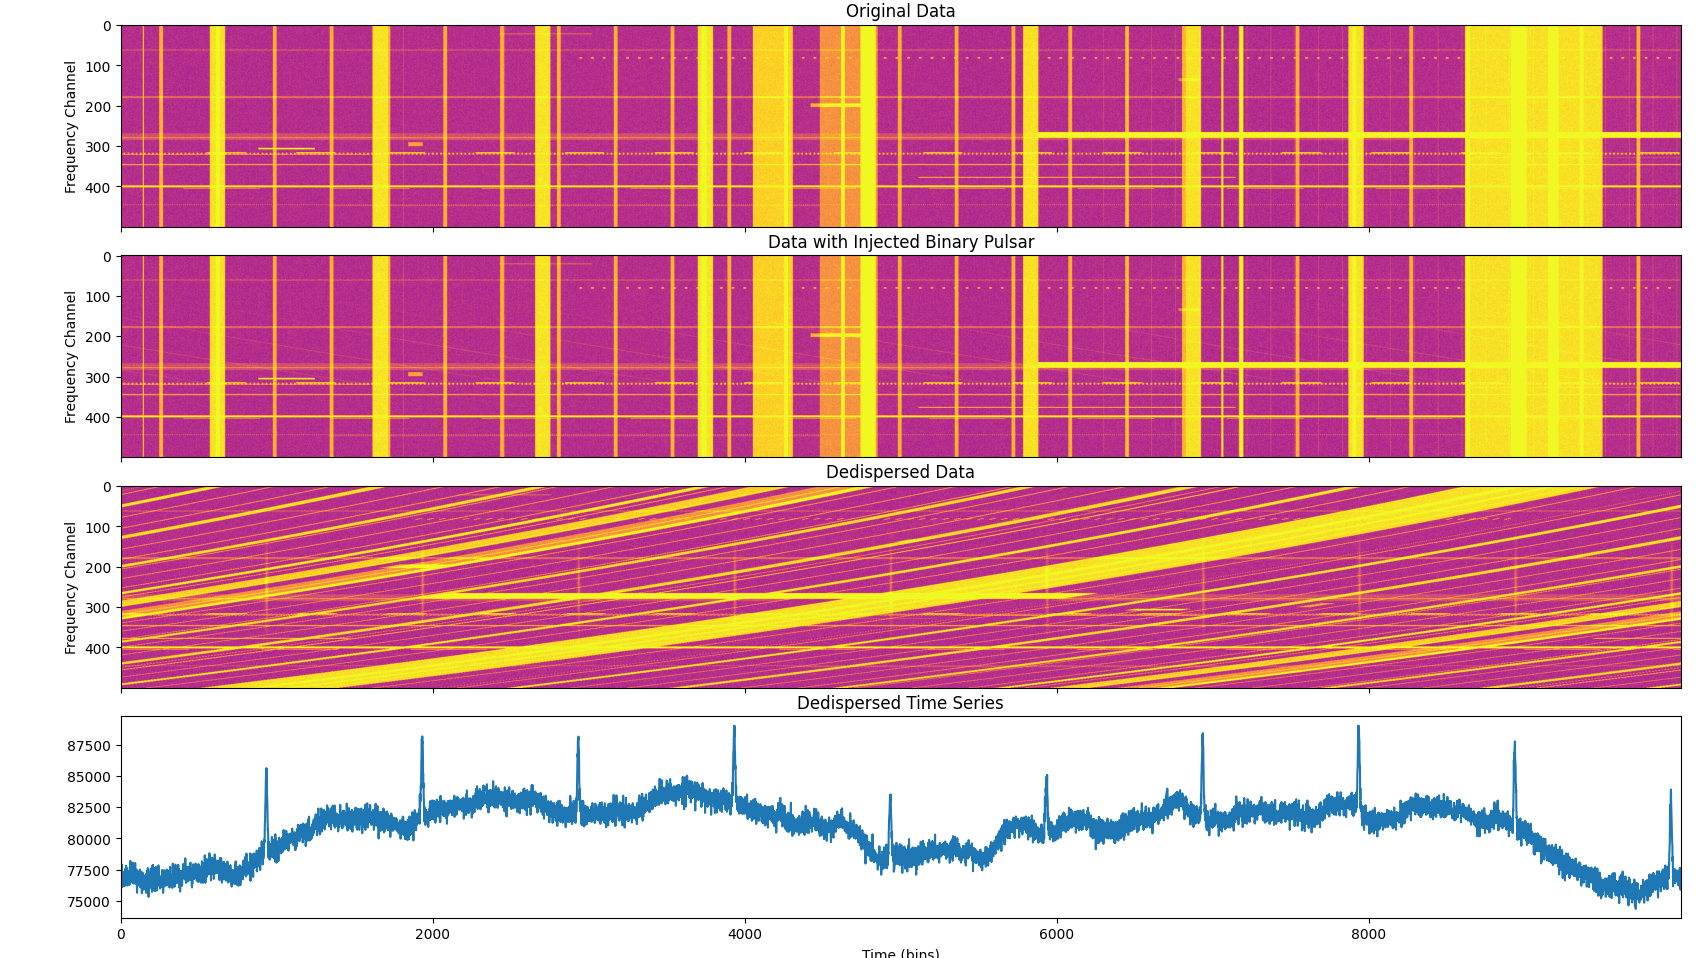
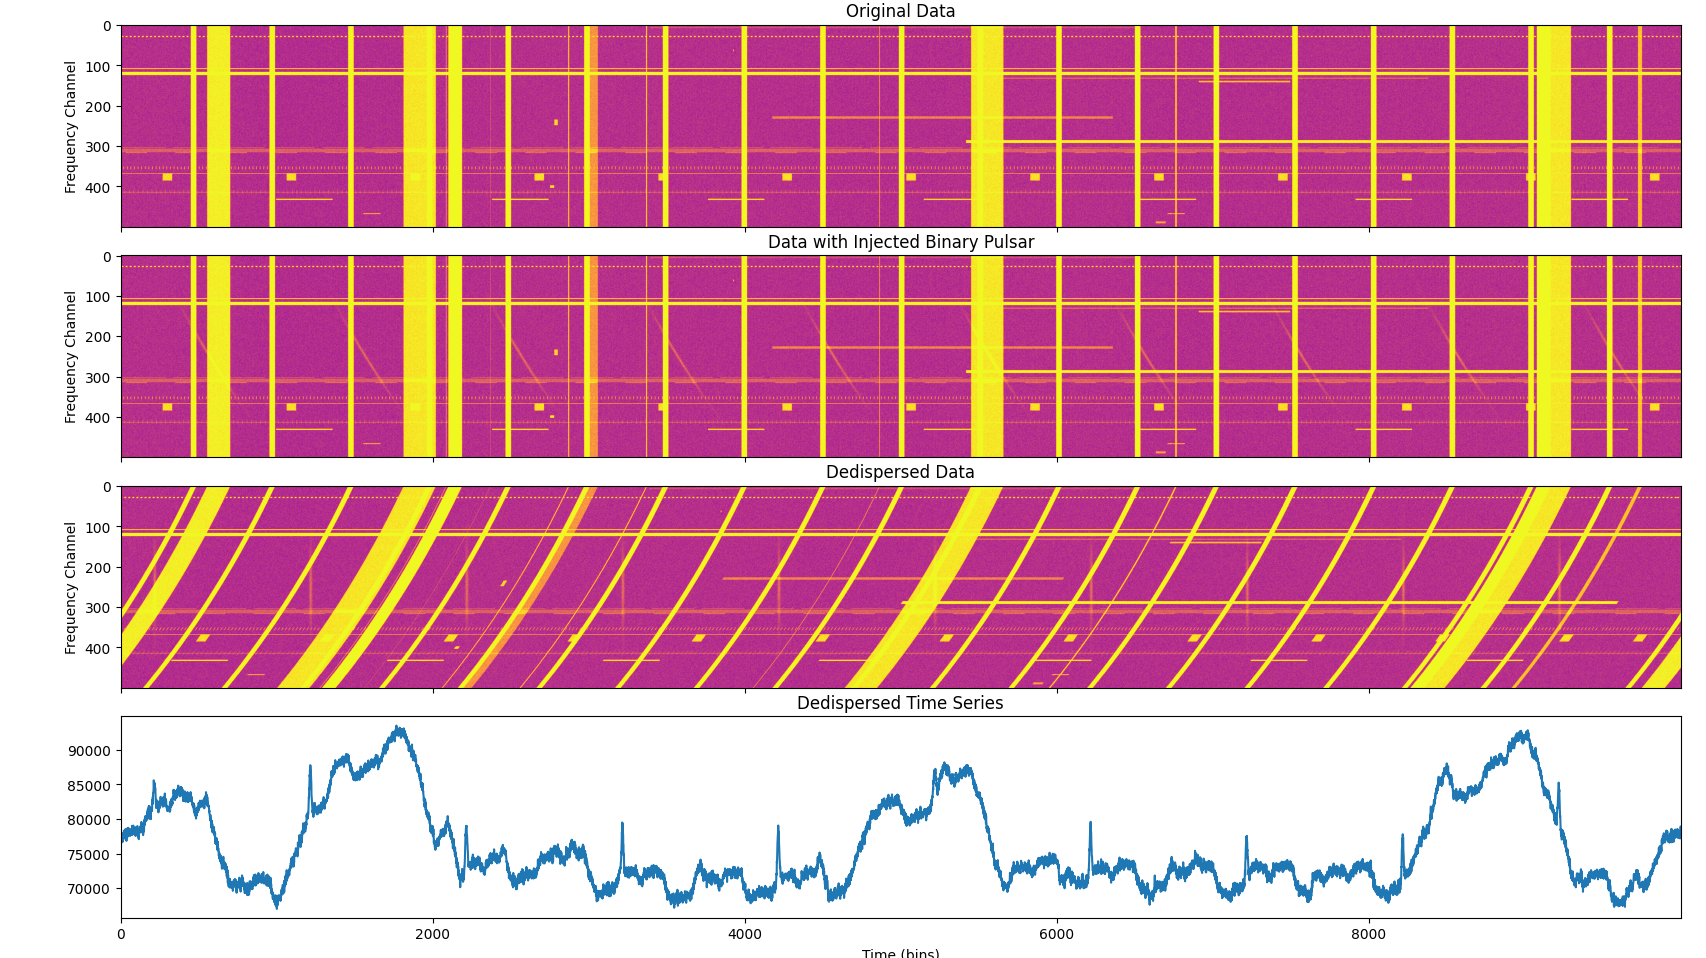
changed pulsar example image

diff --git a/examples/example_frb_generator.py b/examples/example_frb_generator.py
@@ -125,7 +125,7 @@ def main():
 
     data6 = data.copy()
 
-    DM = 10000  # Dispersion measure of the FRB
+    DM = 1000  # Dispersion measure of the FRB
     frb_start_index = 100  # Start index of the FRB
     frb_duration = 50  # Duration of the FRB
     frb_amplitude = 200  # Amplitude of the FRB

diff --git a/examples/example_pulsar_generator.py b/examples/example_pulsar_generator.py
@@ -125,7 +125,7 @@ def main():
 
     data6 = data.copy()
 
-    DM = 10000  # Dispersion measure of the FRB
+    DM = 1000  # Dispersion measure of the FRB
 
     # Binary pulsar parameters
     binary_params = {
